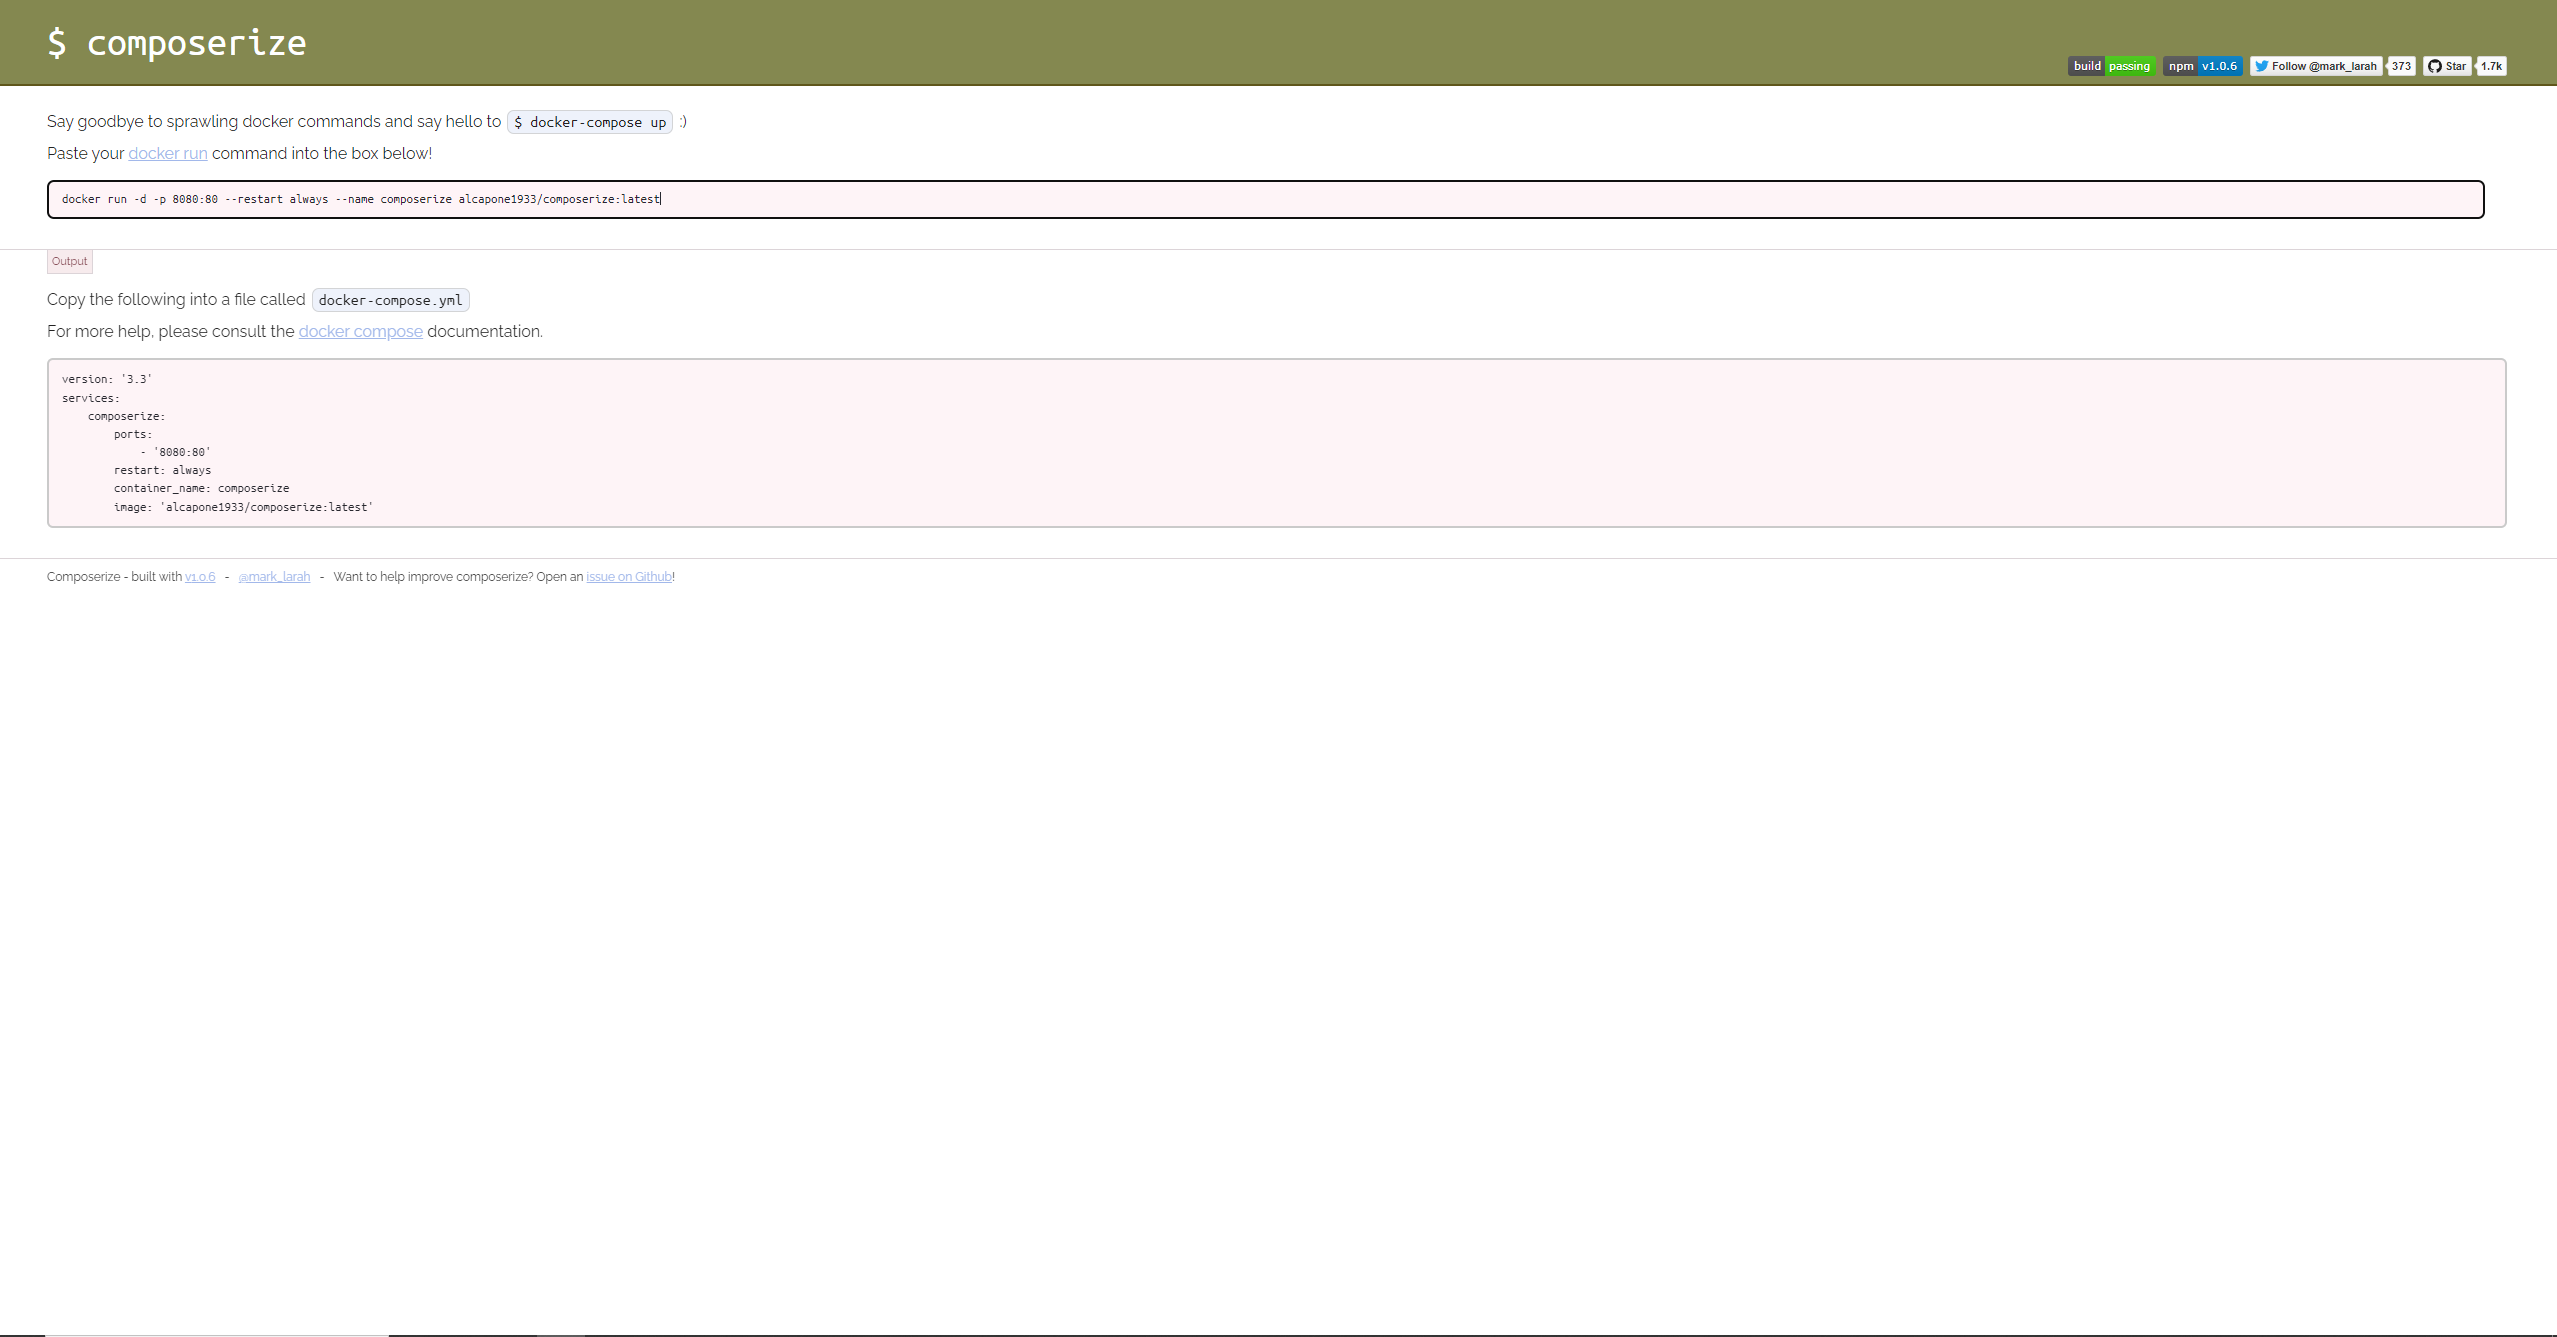
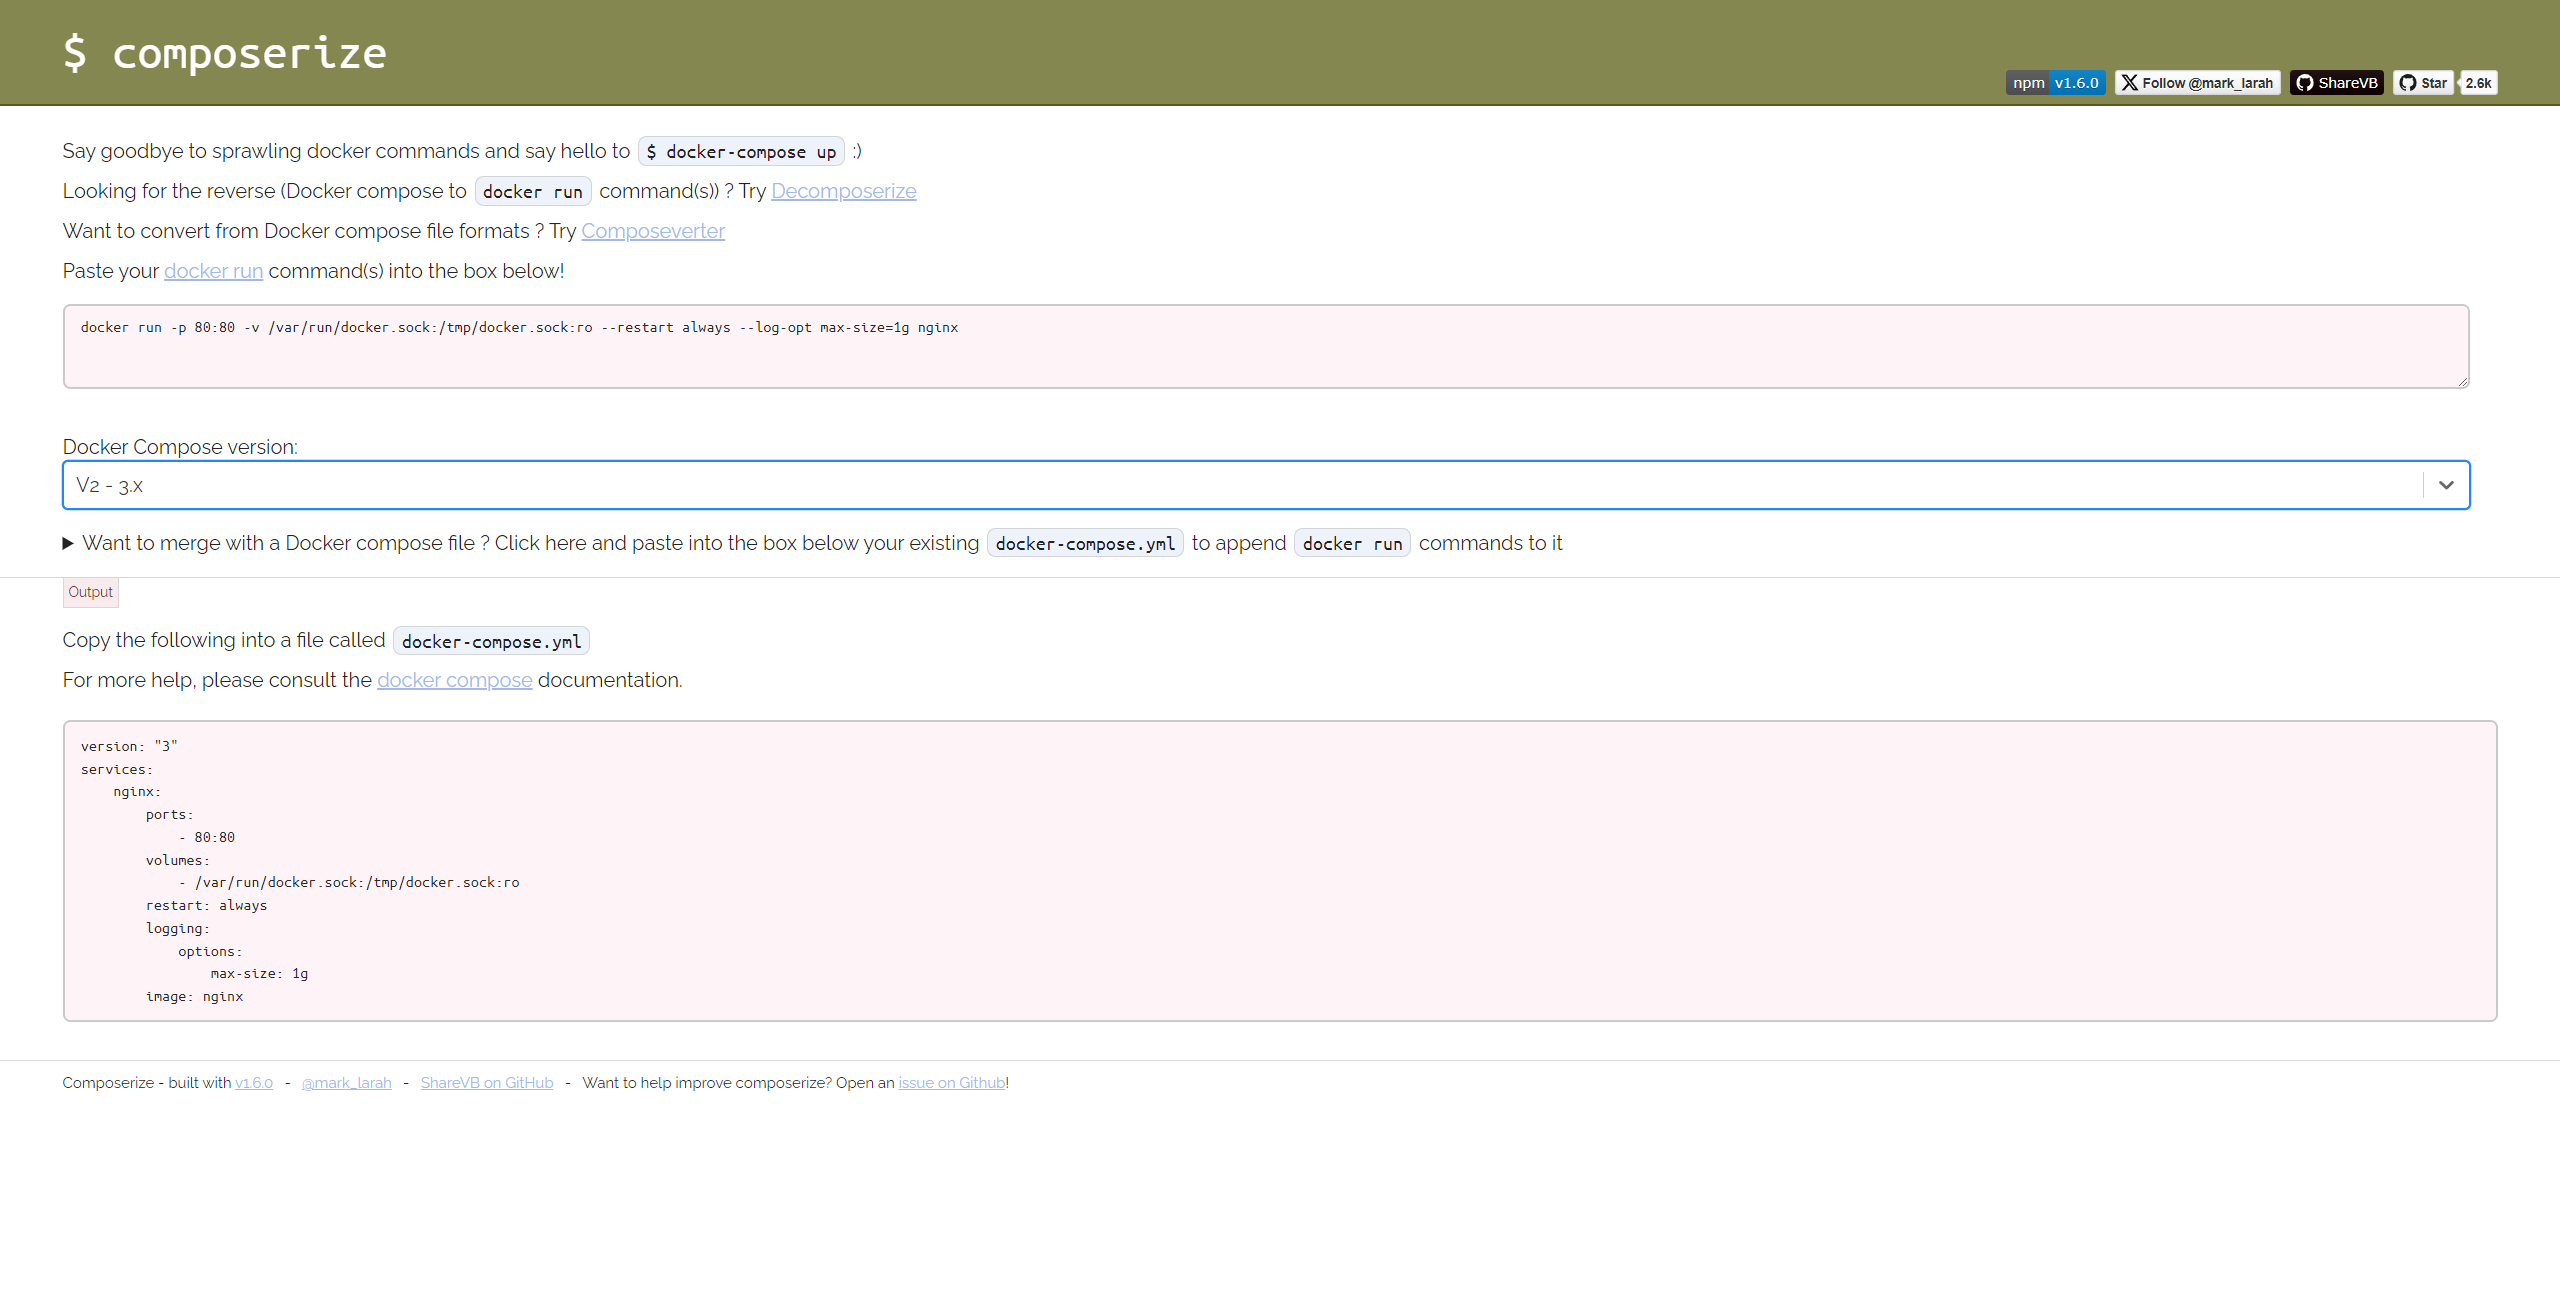
update

diff --git a/README.md b/README.md
@@ -1,25 +1,34 @@
 # Composerize
+
 [![Build Status](https://shields.cosanostra-cloud.de/drone/build/alcapone1933/docker-composerize?logo=drone&server=https%3A%2F%2Fdrone.docker-for-life.de)](https://drone.docker-for-life.de/alcapone1933/docker-composerize)
 [![Build Status Branch Master](https://shields.cosanostra-cloud.de/drone/build/alcapone1933/docker-composerize/master?logo=drone&label=build%20%5Bbranch%20master%5D&server=https%3A%2F%2Fdrone.docker-for-life.de)](https://drone.docker-for-life.de/alcapone1933/docker-composerize/branches)
 [![Docker Pulls](https://shields.cosanostra-cloud.de/docker/pulls/alcapone1933/composerize?logo=docker&logoColor=blue)](https://hub.docker.com/r/alcapone1933/composerize/tags)
 ![Docker Image Version (latest semver)](https://shields.cosanostra-cloud.de/docker/v/alcapone1933/composerize?sort=semver&logo=docker&logoColor=blue&label=dockerhub%20version)
 
-[![Composerize](/img/docker-composerize.png)](https://www.composerize.com/)
 ### FORK
-Docker Composerize the original is from github \
-https://github.com/composerize/composerize
+
+[Composerize](https://github.com/composerize/composerize) , [Decomposerize](https://github.com/composerize/decomposerize) , [Composeverter](https://github.com/outilslibre/composeverter) the original is from github 
+
+#### 3 in 1 [Composerize=Website](https://www.composerize.com/) , [Decomposerize=Website](https://www.decomposerize.com) , [Composeverter=Website](https://www.composeverter.com)
+
+Composerize = http://localhost:80 \
+Decomposerize = http://localhost:80/decomposerize \
+Composeverter = http://localhost:80/composeverter
+
 
 #  Docker REPO
 https://hub.docker.com/r/alcapone1933/composerize
+
 * * *
 ### Docker CLI
 
 ```bash
 docker run -d \
     -p 8080:80 \
+    -e TZ=Europe/Berlin \
     --restart always \
     --name composerize \
-    alcapone1933/composerize:latest
+    alcapone1933/composerize
 
 ```
 
@@ -56,3 +65,8 @@ services:
 | Timezone      | TZ        | Europe/Berlin                  |
 
 
+<img src="img/docker-composerize.png"  width="1150" height="650">
+
+<img src="img/docker-decomposerize.png"  width="1150" height="650">
+
+<img src="img/docker-composeverter.png"  width="1150" height="650">
